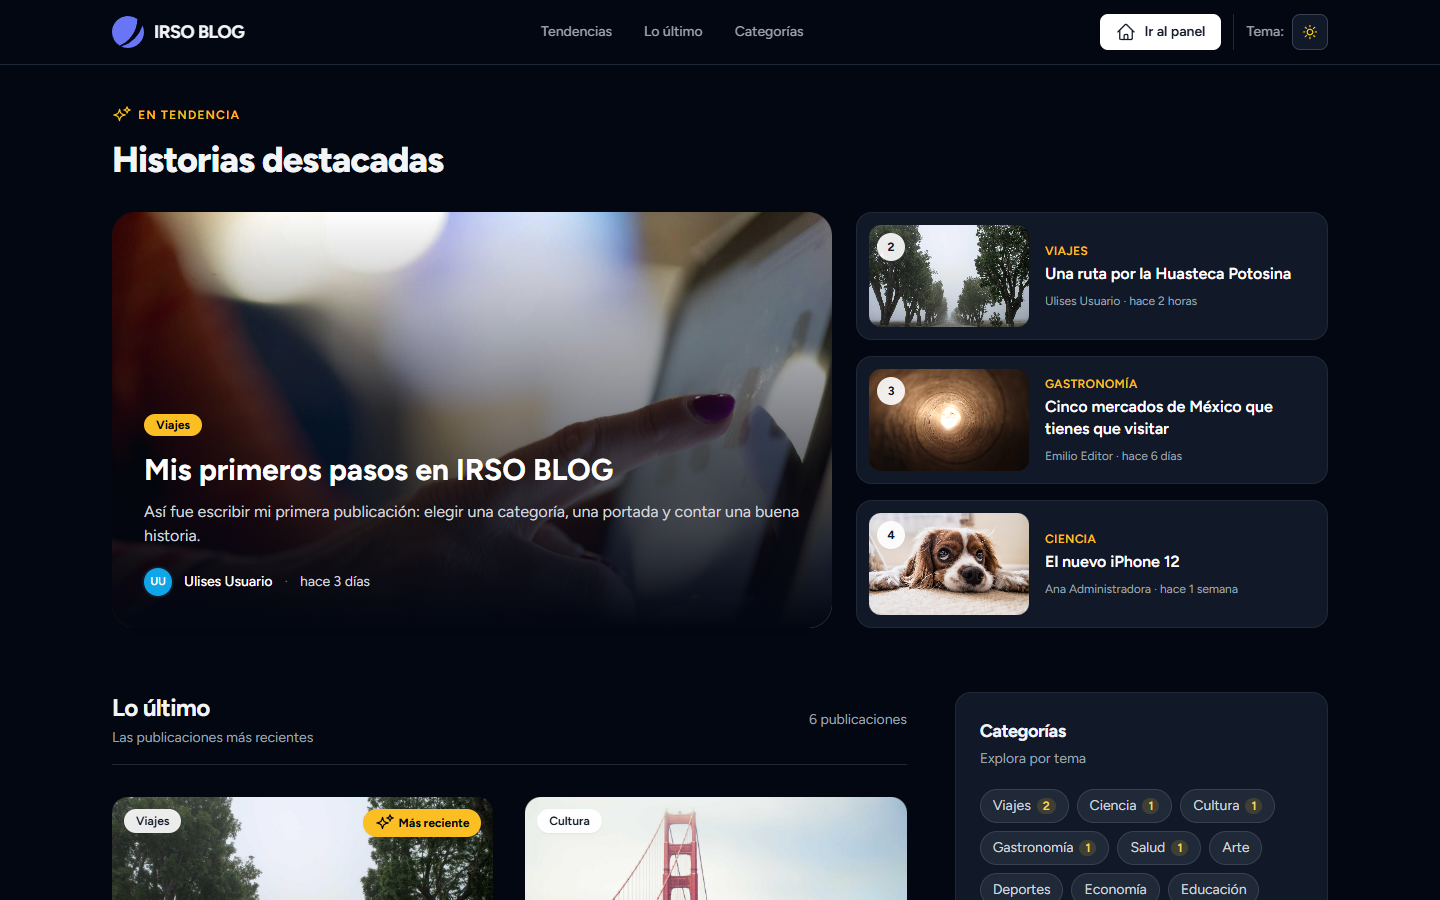
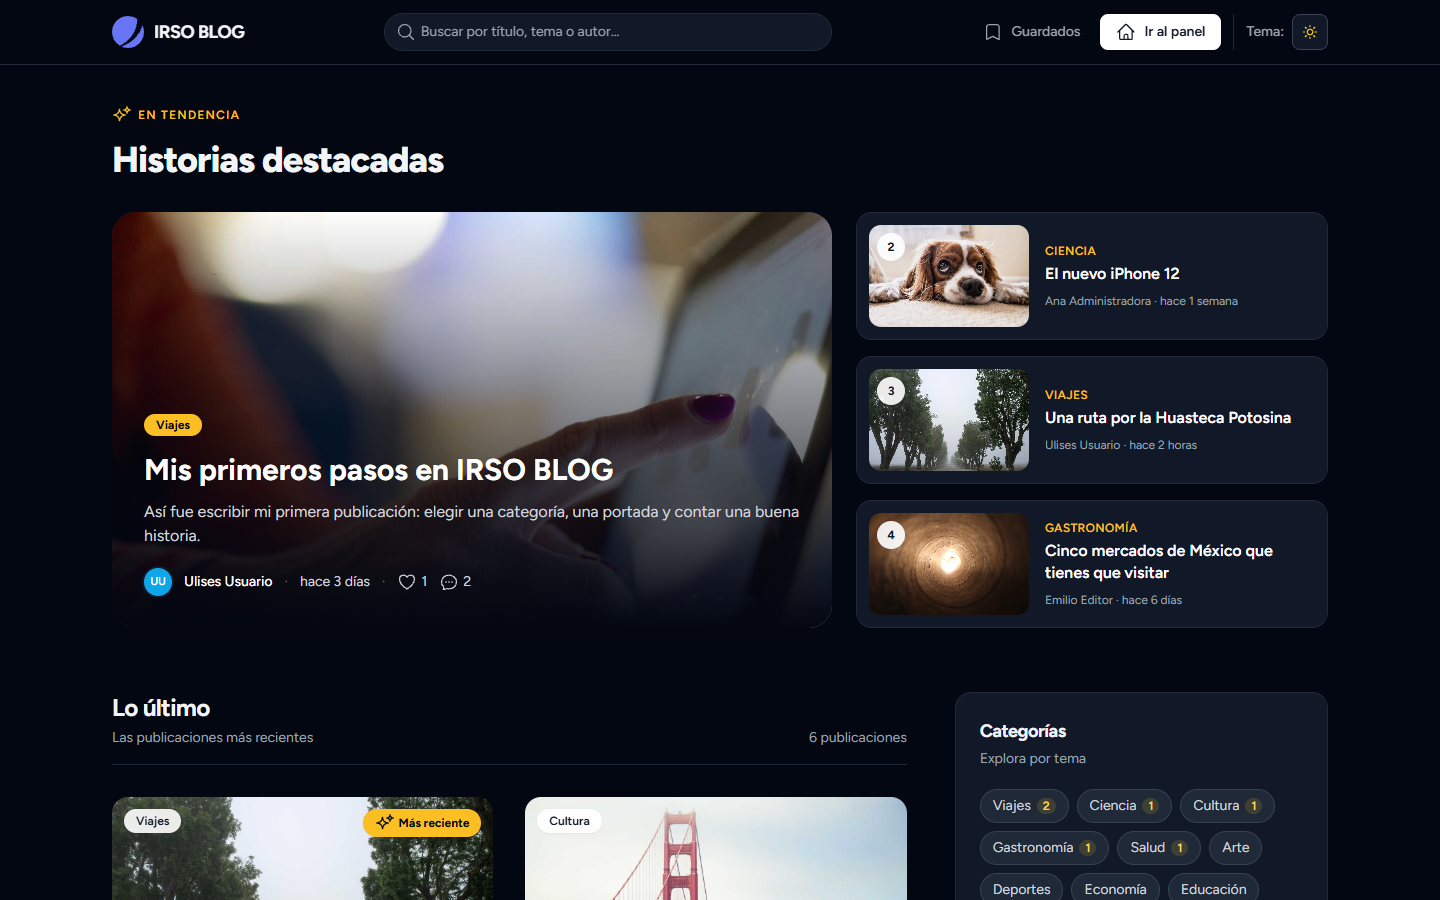
docs(readme): show the redesigned blog, saved list and reports

diff --git a/README.md b/README.md
@@ -186,6 +186,14 @@ Los permisos se aplican en el servidor con el middleware `role` y la política `
 
 Login y registro con correo, o con Google, Microsoft y Facebook.
 
+### Blog
+
+Todos los roles leen el blog: buscan desde la cabecera, filtran por categoría, reaccionan con emoji, guardan publicaciones para después y reportan las que no deberían estar.
+
+| Página de una publicación (reacciones, guardar, compartir, reportar y comentarios) | Guardados |
+|---|---|
+| ![Página de una publicación](docs/screenshots/blog-publicacion.png) | ![Guardados](docs/screenshots/blog-guardados.png) |
+
 ### Administrador
 
 **Panel de inicio:** totales del blog, publicaciones recientes, usuarios nuevos y categorías más usadas.
@@ -208,9 +216,13 @@ Login y registro con correo, o con Google, Microsoft y Facebook.
 
 ![Publicaciones](docs/screenshots/admin-publicaciones.png)
 
+**Reportes:** la cola de moderación con pestañas de pendientes, resueltos y descartados. Desde aquí se descarta un reporte, se marca como resuelto o se retira la publicación (y se puede restaurar después).
+
+![Reportes](docs/screenshots/admin-reportes.png)
+
 ### Editor
 
-Gestiona el contenido de todo el blog (publicaciones, categorías y estadísticas), pero no administra personas.
+Gestiona el contenido de todo el blog (publicaciones, categorías, estadísticas y reportes), pero no administra personas.
 
 | Panel del editor | Publicaciones |
 |---|---|
@@ -303,7 +315,7 @@ La bienvenida, el aviso de contraseña y el de comentario no detienen a quien es
 php artisan test
 ```
 
-La suite cubre la autenticación (incluido el login social), los permisos por rol, el módulo de publicaciones, los correos, la redirección a `APP_URL` y los seeders.
+La suite cubre la autenticación (incluido el login social), los permisos por rol, el módulo de publicaciones, el blog (búsqueda, reacciones, guardados, reportes y moderación), la optimización de portadas, los correos, la redirección a `APP_URL` y los seeders.
 
 ## Solución de problemas
 
@@ -328,7 +340,8 @@ IRSO-BLOG/
 │   │   └── Jetstream/            # Eliminación de cuentas
 │   ├── Http/
 │   │   ├── Controllers/          # Dashboard, Blog, Publication, Comment, Category, Role, User,
-│   │   │                         # Statistics, RecycleBin, Socialite (login social) y más
+│   │   │                         # Statistics, RecycleBin, Reaction, SavedPublication,
+│   │   │                         # Complaint (reportes), Socialite (login social) y más
 │   │   ├── Middleware/           # EnsureUserHasRole (role:admin,editor) y RedirectToCanonicalHost
 │   │   └── Responses/            # RegisterResponse: manda al blog después de registrarse
 │   ├── Livewire/                 # Navigation (barra de Jetstream)
@@ -339,6 +352,7 @@ IRSO-BLOG/
 │   ├── Notifications/            # WelcomeEmail, PasswordChanged, CommentReceived, SocialLoginCode
 │   ├── Policies/                 # PublicationPolicy: quién puede editar una publicación
 │   ├── Providers/                # AppServiceProvider, FortifyServiceProvider, JetstreamServiceProvider
+│   ├── Support/                  # CoverImage: reduce y recomprime las portadas al subirlas
 │   └── View/Components/          # AppLayout y GuestLayout
 ├── bootstrap/
 │   └── app.php                   # Rutas, middleware (alias "role") y manejo de excepciones
@@ -346,15 +360,17 @@ IRSO-BLOG/
 ├── database/
 │   ├── factories/                # UserFactory para las pruebas
 │   ├── migrations/               # Tablas de usuarios, publicaciones, categorías, roles, comentarios,
-│   │                             # reacciones, etiquetas, cuentas sociales y la unión de duplicados
-│   └── seeders/                  # Roles, categorías, cuentas demo y publicaciones de ejemplo
+│   │                             # reacciones, etiquetas, cuentas sociales, la unión de duplicados
+│   │                             # y reacciones, guardados y reportes por publicación
+│   └── seeders/                  # Roles, categorías, cuentas demo, publicaciones, reacciones,
+│                                 # guardados y un reporte de ejemplo
 ├── docs/
 │   └── screenshots/              # Imágenes de este README
 ├── public/
 │   ├── img/                      # Iconos de reacciones
 │   └── index.php                 # Punto de entrada de la aplicación
 ├── resources/
-│   ├── css/app.css               # Tailwind
+│   ├── css/app.css               # Tailwind y animaciones de las tarjetas y reacciones
 │   ├── js/
 │   │   ├── app.js
 │   │   └── statistics.js         # Gráficas del módulo de estadísticas (Chart.js)
@@ -363,16 +379,18 @@ IRSO-BLOG/
 │       ├── admin/                # Módulos del panel
 │       │   ├── categories/       # Categorías
 │       │   ├── publications/     # Todas, mis publicaciones, crear, editar y formulario compartido
+│       │   ├── reports/          # Cola de moderación de reportes
 │       │   ├── roles/            # Roles
 │       │   ├── users/            # Control de usuarios y usuarios ocultos
 │       │   ├── recycle-bin.blade.php
 │       │   └── statistics.blade.php
 │       ├── api/                  # Tokens de API (Jetstream)
 │       ├── auth/                 # Login, registro, recuperar contraseña y confirmación por código
-│       ├── blog/                 # Blog público
+│       ├── blog/                 # Portada, página de cada publicación y guardados
 │       ├── components/
 │       │   ├── admin/            # Botones, campos, selector, modales, tablas, iconos, insignias…
-│       │   ├── layouts/          # Layouts del panel (admin) y de login y registro (auth)
+│       │   ├── blog/             # Tarjeta de publicación
+│       │   ├── layouts/          # Layouts del panel (admin), del blog y de login y registro (auth)
 │       │   ├── theme-script.blade.php
 │       │   └── theme-toggle.blade.php
 │       ├── emails/               # Plantillas de correo
